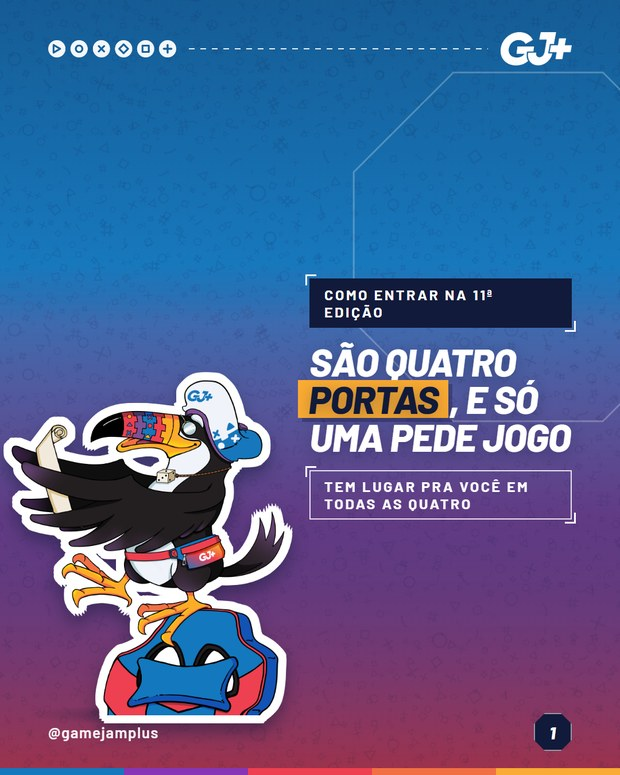
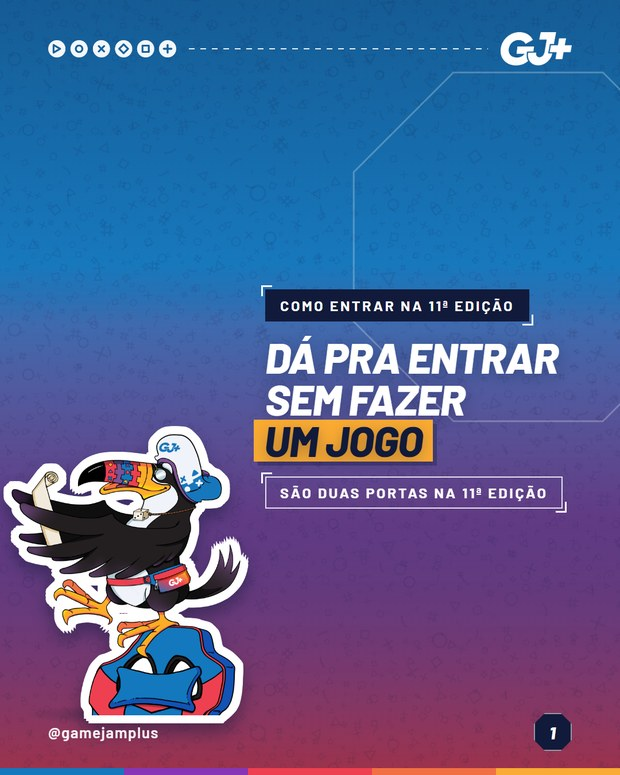
J17 fica so com as portas que falam com jammer
A campanha virou pra inscricao de jammer, e o post vendia quatro portas. Saem
duas: organizador local, cuja captacao fechou em 18/09 e que mandava gente
pra uma porta que nao abre mais, e parceiro, que e conversa com marca.

Sobraram jammer e voluntario, entao o post vai de 6 pra 4 slides, a capa
passa a dizer duas portas e o titulo vira "Da pra entrar sem fazer um jogo".
Legenda em portugues reescrita junto. EN e ES ficam pra quando forem
convertidos pro estilo campo: a arte deles ainda e v9 e nenhum esta agendado.

Changed region(s): [[0.0, 0.3406, 0.95, 0.96]]

diff --git a/p/j17-pt/index.html b/p/j17-pt/index.html
@@ -3,14 +3,14 @@
 <head>
 <meta charset="utf-8">
 <meta name="viewport" content="width=device-width,initial-scale=1">
-<title>J17 - As quatro formas de entrar · GameJamPlus</title>
-<meta name="description" content="São quatro portas na 11ª edição e só uma pede um jogo. Jammer faz um em 48 horas, organizador local abre a sede, voluntário entra na staff global e parc...">
+<title>J17 - Da pra entrar sem fazer um jogo · GameJamPlus</title>
+<meta name="description" content="São duas portas abertas na 11ª edição e só uma pede um jogo. Como jammer você cria um do zero em 48 horas, em time de 3 a 6 pessoas, e de iniciante a sê...">
 <meta name="robots" content="noindex">
 <meta property="og:type" content="article">
 <meta property="og:site_name" content="GameJamPlus · carrosséis">
-<meta property="og:title" content="J17 - As quatro formas de entrar">
-<meta property="og:description" content="São quatro portas na 11ª edição e só uma pede um jogo. Jammer faz um em 48 horas, organizador local abre a sede, voluntário entra na staff global e parc...">
-<meta property="og:image" content="https://gamejamplus-carrosseis.vercel.app/img/01-conteudos-gj-pt-j18-as-quatro-formas-de-entrar/slide_01.jpg?v=2">
+<meta property="og:title" content="J17 - Da pra entrar sem fazer um jogo">
+<meta property="og:description" content="São duas portas abertas na 11ª edição e só uma pede um jogo. Como jammer você cria um do zero em 48 horas, em time de 3 a 6 pessoas, e de iniciante a sê...">
+<meta property="og:image" content="https://gamejamplus-carrosseis.vercel.app/img/01-conteudos-gj-pt-j18-as-quatro-formas-de-entrar/slide_01.jpg?v=3">
 <meta property="og:url" content="https://gamejamplus-carrosseis.vercel.app/p/j17-pt/">
 <meta name="twitter:card" content="summary_large_image">
 <link rel="preconnect" href="https://fonts.googleapis.com">
@@ -64,14 +64,14 @@ h1{font-size:23px;font-weight:800;letter-spacing:-.5px;margin:8px 0 4px;line-hei
     <a href="../../">Ver todos os carrosséis</a>
   </header>
   <div><span class="tagcat">GJ+</span><span class="taglang PT">PT</span></div>
-  <h1>J17 - As quatro formas de entrar</h1>
-  <p class="sub">6 slides</p>
+  <h1>J17 - Da pra entrar sem fazer um jogo</h1>
+  <p class="sub">4 slides</p>
 
   <div class="palco">
-    <img id="sl" src="../../img/01-conteudos-gj-pt-j18-as-quatro-formas-de-entrar/slide_01.jpg?v=2" alt="J17 - As quatro formas de entrar 1">
+    <img id="sl" src="../../img/01-conteudos-gj-pt-j18-as-quatro-formas-de-entrar/slide_01.jpg?v=3" alt="J17 - Da pra entrar sem fazer um jogo 1">
     <button class="seta e" type="button" aria-label="Anterior">←</button>
     <button class="seta d" type="button" aria-label="Próximo">→</button>
-    <span class="cont"><b id="n">1</b>/6</span>
+    <span class="cont"><b id="n">1</b>/4</span>
   </div>
   <div class="dots" id="dots"></div>
 
@@ -79,16 +79,16 @@ h1{font-size:23px;font-weight:800;letter-spacing:-.5px;margin:8px 0 4px;line-hei
 
   <section class="leg">
     <h2>Legenda do Instagram · PT</h2>
-    <p>São quatro portas na 11ª edição e só uma pede um jogo. Jammer faz um em 48 horas, organizador local abre a sede, voluntário entra na staff global e parceiro põe a marca dentro de 50 países.</p>
-    <p>Voluntário e parceiro são as duas de que ninguém fala, e nenhuma das duas pede jogo. Comenta por qual das quatro você entraria. Inscrição da 11ª edição no link da bio.</p>
+    <p>São duas portas abertas na 11ª edição e só uma pede um jogo. Como jammer você cria um do zero em 48 horas, em time de 3 a 6 pessoas, e de iniciante a sênior todos cabem. Como voluntário você entra na staff global, em comunicação, jurados, apoio técnico e operações, sem escrever uma linha de código.</p>
+    <p>Comenta por qual das duas você entraria. A inscrição de jammer da 11ª edição está aberta, é grátis e você faz pelo link da bio.</p>
     <div class="tags">#GameJamPlus #GameJam #GameDev #IndieDev #IndieGames #GameDevCommunity</div>
     <div class="acoes"><button type="button" id="copiaLeg">Copiar legenda</button></div>
   </section>
   <p class="rod">Uso interno, para revisão.</p>
 </div>
 <script>
-const S=["../../img/01-conteudos-gj-pt-j18-as-quatro-formas-de-entrar/slide_01.jpg?v=2","../../img/01-conteudos-gj-pt-j18-as-quatro-formas-de-entrar/slide_02.jpg?v=2","../../img/01-conteudos-gj-pt-j18-as-quatro-formas-de-entrar/slide_03.jpg?v=2","../../img/01-conteudos-gj-pt-j18-as-quatro-formas-de-entrar/slide_04.jpg?v=2","../../img/01-conteudos-gj-pt-j18-as-quatro-formas-de-entrar/slide_05.jpg?v=2","../../img/01-conteudos-gj-pt-j18-as-quatro-formas-de-entrar/slide_06.jpg?v=2"];
-const LEGTXT="São quatro portas na 11ª edição e só uma pede um jogo. Jammer faz um em 48 horas, organizador local abre a sede, voluntário entra na staff global e parceiro põe a marca dentro de 50 países.\n\nVoluntário e parceiro são as duas de que ninguém fala, e nenhuma das duas pede jogo. Comenta por qual das quatro você entraria. Inscrição da 11ª edição no link da bio.\n\n#GameJamPlus #GameJam #GameDev #IndieDev #IndieGames #GameDevCommunity";
+const S=["../../img/01-conteudos-gj-pt-j18-as-quatro-formas-de-entrar/slide_01.jpg?v=3","../../img/01-conteudos-gj-pt-j18-as-quatro-formas-de-entrar/slide_02.jpg?v=3","../../img/01-conteudos-gj-pt-j18-as-quatro-formas-de-entrar/slide_03.jpg?v=3","../../img/01-conteudos-gj-pt-j18-as-quatro-formas-de-entrar/slide_04.jpg?v=3"];
+const LEGTXT="São duas portas abertas na 11ª edição e só uma pede um jogo. Como jammer você cria um do zero em 48 horas, em time de 3 a 6 pessoas, e de iniciante a sênior todos cabem. Como voluntário você entra na staff global, em comunicação, jurados, apoio técnico e operações, sem escrever uma linha de código.\n\nComenta por qual das duas você entraria. A inscrição de jammer da 11ª edição está aberta, é grátis e você faz pelo link da bio.\n\n#GameJamPlus #GameJam #GameDev #IndieDev #IndieGames #GameDevCommunity";
 let i=0;
 const img=document.getElementById('sl'),nn=document.getElementById('n'),dots=document.getElementById('dots');
 if(dots){S.forEach((_,k)=>{const d=document.createElement('i');d.onclick=()=>ir(k);dots.append(d)});}

diff --git a/index.html b/index.html
@@ -1118,10 +1118,10 @@ dialog img{width:min(92vw,620px);max-height:92dvh;object-fit:contain;border-radi
   <header><div><span class="tagcat">GJ+</span><span class="taglang ES">ES</span><h2>E17 - Solo faltaba la puerta</h2></div>
   <div class="nav"><button aria-label="Anterior" data-d="-1">&#8592;</button><button aria-label="Pr&#243;ximo" data-d="1">&#8594;</button><span class="cont">6</span></div></header>
   <div class="strip"><figure><img src="img/01-conteudos-gj-es-e17-solo-faltaba-la-puerta/slide_01.jpg?v=3" alt="E17 - Solo faltaba la puerta 1" width="620" height="775" loading="lazy" decoding="async"><figcaption>01</figcaption></figure><figure><img src="img/01-conteudos-gj-es-e17-solo-faltaba-la-puerta/slide_02.jpg?v=3" alt="E17 - Solo faltaba la puerta 2" width="620" height="775" loading="lazy" decoding="async"><figcaption>02</figcaption></figure><figure><img src="img/01-conteudos-gj-es-e17-solo-faltaba-la-puerta/slide_03.jpg?v=3" alt="E17 - Solo faltaba la puerta 3" width="620" height="775" loading="lazy" decoding="async"><figcaption>03</figcaption></figure><figure><img src="img/01-conteudos-gj-es-e17-solo-faltaba-la-puerta/slide_04.jpg?v=3" alt="E17 - Solo faltaba la puerta 4" width="620" height="775" loading="lazy" decoding="async"><figcaption>04</figcaption></figure><figure><img src="img/01-conteudos-gj-es-e17-solo-faltaba-la-puerta/slide_05.jpg?v=3" alt="E17 - Solo faltaba la puerta 5" width="620" height="775" loading="lazy" decoding="async"><figcaption>05</figcaption></figure><figure><img src="img/01-conteudos-gj-es-e17-solo-faltaba-la-puerta/slide_06.jpg?v=3" alt="E17 - Solo faltaba la puerta 6" width="620" height="775" loading="lazy" decoding="async"><figcaption>06</figcaption></figure></div></article>
-<article class="c" data-cat="01-conteudos-gj" data-lang="PT" data-busca="j17 - as quatro formas de entrar gj+" id="c260">
-  <header><div><span class="tagcat">GJ+</span><span class="taglang PT">PT</span><h2>J17 - As quatro formas de entrar</h2></div>
-  <div class="nav"><button aria-label="Anterior" data-d="-1">&#8592;</button><button aria-label="Pr&#243;ximo" data-d="1">&#8594;</button><span class="cont">6</span></div></header>
-  <div class="strip"><figure><img src="img/01-conteudos-gj-pt-j18-as-quatro-formas-de-entrar/slide_01.jpg?v=2" alt="J17 - As quatro formas de entrar 1" width="620" height="775" loading="lazy" decoding="async"><figcaption>01</figcaption></figure><figure><img src="img/01-conteudos-gj-pt-j18-as-quatro-formas-de-entrar/slide_02.jpg?v=2" alt="J17 - As quatro formas de entrar 2" width="620" height="775" loading="lazy" decoding="async"><figcaption>02</figcaption></figure><figure><img src="img/01-conteudos-gj-pt-j18-as-quatro-formas-de-entrar/slide_03.jpg?v=2" alt="J17 - As quatro formas de entrar 3" width="620" height="775" loading="lazy" decoding="async"><figcaption>03</figcaption></figure><figure><img src="img/01-conteudos-gj-pt-j18-as-quatro-formas-de-entrar/slide_04.jpg?v=2" alt="J17 - As quatro formas de entrar 4" width="620" height="775" loading="lazy" decoding="async"><figcaption>04</figcaption></figure><figure><img src="img/01-conteudos-gj-pt-j18-as-quatro-formas-de-entrar/slide_05.jpg?v=2" alt="J17 - As quatro formas de entrar 5" width="620" height="775" loading="lazy" decoding="async"><figcaption>05</figcaption></figure><figure><img src="img/01-conteudos-gj-pt-j18-as-quatro-formas-de-entrar/slide_06.jpg?v=2" alt="J17 - As quatro formas de entrar 6" width="620" height="775" loading="lazy" decoding="async"><figcaption>06</figcaption></figure></div></article>
+<article class="c" data-cat="01-conteudos-gj" data-lang="PT" data-busca="j17 - da pra entrar sem fazer um jogo gj+" id="c260">
+  <header><div><span class="tagcat">GJ+</span><span class="taglang PT">PT</span><h2>J17 - Da pra entrar sem fazer um jogo</h2></div>
+  <div class="nav"><button aria-label="Anterior" data-d="-1">&#8592;</button><button aria-label="Pr&#243;ximo" data-d="1">&#8594;</button><span class="cont">4</span></div></header>
+  <div class="strip"><figure><img src="img/01-conteudos-gj-pt-j18-as-quatro-formas-de-entrar/slide_01.jpg?v=3" alt="J17 - Da pra entrar sem fazer um jogo 1" width="620" height="775" loading="lazy" decoding="async"><figcaption>01</figcaption></figure><figure><img src="img/01-conteudos-gj-pt-j18-as-quatro-formas-de-entrar/slide_02.jpg?v=3" alt="J17 - Da pra entrar sem fazer um jogo 2" width="620" height="775" loading="lazy" decoding="async"><figcaption>02</figcaption></figure><figure><img src="img/01-conteudos-gj-pt-j18-as-quatro-formas-de-entrar/slide_03.jpg?v=3" alt="J17 - Da pra entrar sem fazer um jogo 3" width="620" height="775" loading="lazy" decoding="async"><figcaption>03</figcaption></figure><figure><img src="img/01-conteudos-gj-pt-j18-as-quatro-formas-de-entrar/slide_04.jpg?v=3" alt="J17 - Da pra entrar sem fazer um jogo 4" width="620" height="775" loading="lazy" decoding="async"><figcaption>04</figcaption></figure></div></article>
 <article class="c" data-cat="01-conteudos-gj" data-lang="EN" data-busca="j17 - the four ways in gj+" id="c261">
   <header><div><span class="tagcat">GJ+</span><span class="taglang EN">EN</span><h2>J17 - The four ways in</h2></div>
   <div class="nav"><button aria-label="Anterior" data-d="-1">&#8592;</button><button aria-label="Pr&#243;ximo" data-d="1">&#8594;</button><span class="cont">6</span></div></header>

diff --git a/legendas.js b/legendas.js
@@ -1547,10 +1547,10 @@ window.LEGENDAS = {
 },
 
 "gj-j17-pt": {
-  "titulo": "J17 · As quatro formas de entrar",
+  "titulo": "J17 · Dá pra entrar sem fazer um jogo",
   "p": [
-    "São quatro portas na 11ª edição e só uma pede um jogo. Jammer faz um em 48 horas, organizador local abre a sede, voluntário entra na staff global e parceiro põe a marca dentro de 50 países.",
-    "Voluntário e parceiro são as duas de que ninguém fala, e nenhuma das duas pede jogo. Comenta por qual das quatro você entraria. Inscrição da 11ª edição no link da bio."
+    "São duas portas abertas na 11ª edição e só uma pede um jogo. Como jammer você cria um do zero em 48 horas, em time de 3 a 6 pessoas, e de iniciante a sênior todos cabem. Como voluntário você entra na staff global, em comunicação, jurados, apoio técnico e operações, sem escrever uma linha de código.",
+    "Comenta por qual das duas você entraria. A inscrição de jammer da 11ª edição está aberta, é grátis e você faz pelo link da bio."
   ],
   "tags": "#GameJamPlus #GameJam #GameDev #IndieDev #IndieGames #GameDevCommunity"
 },
